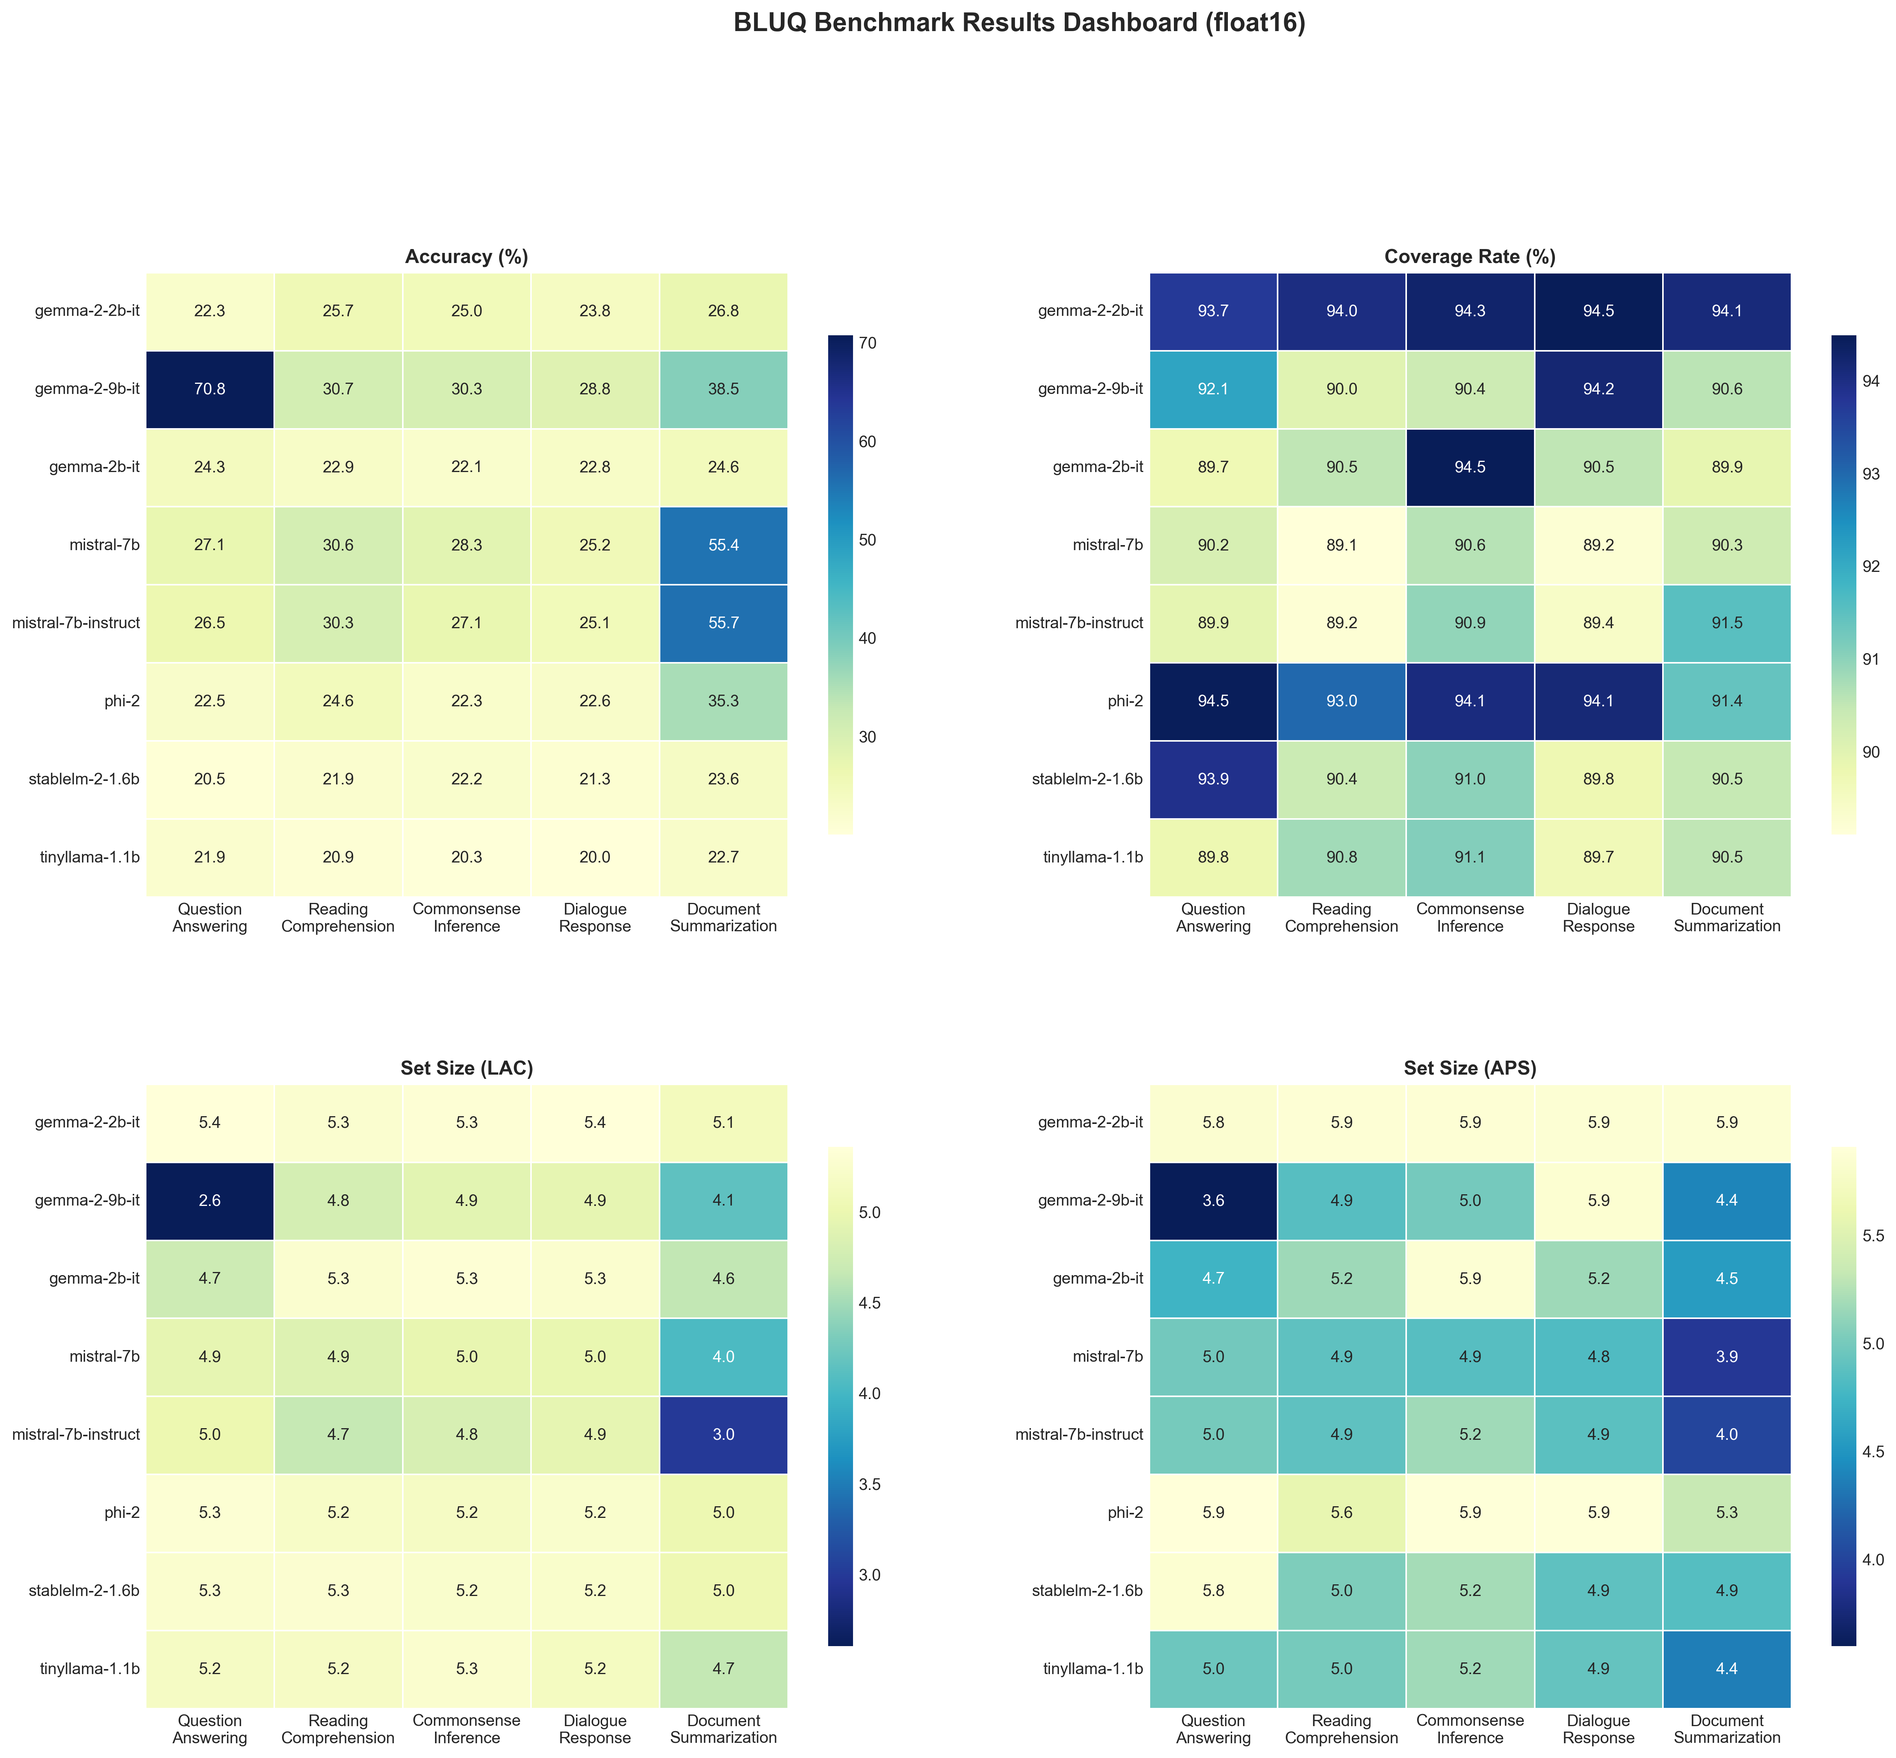
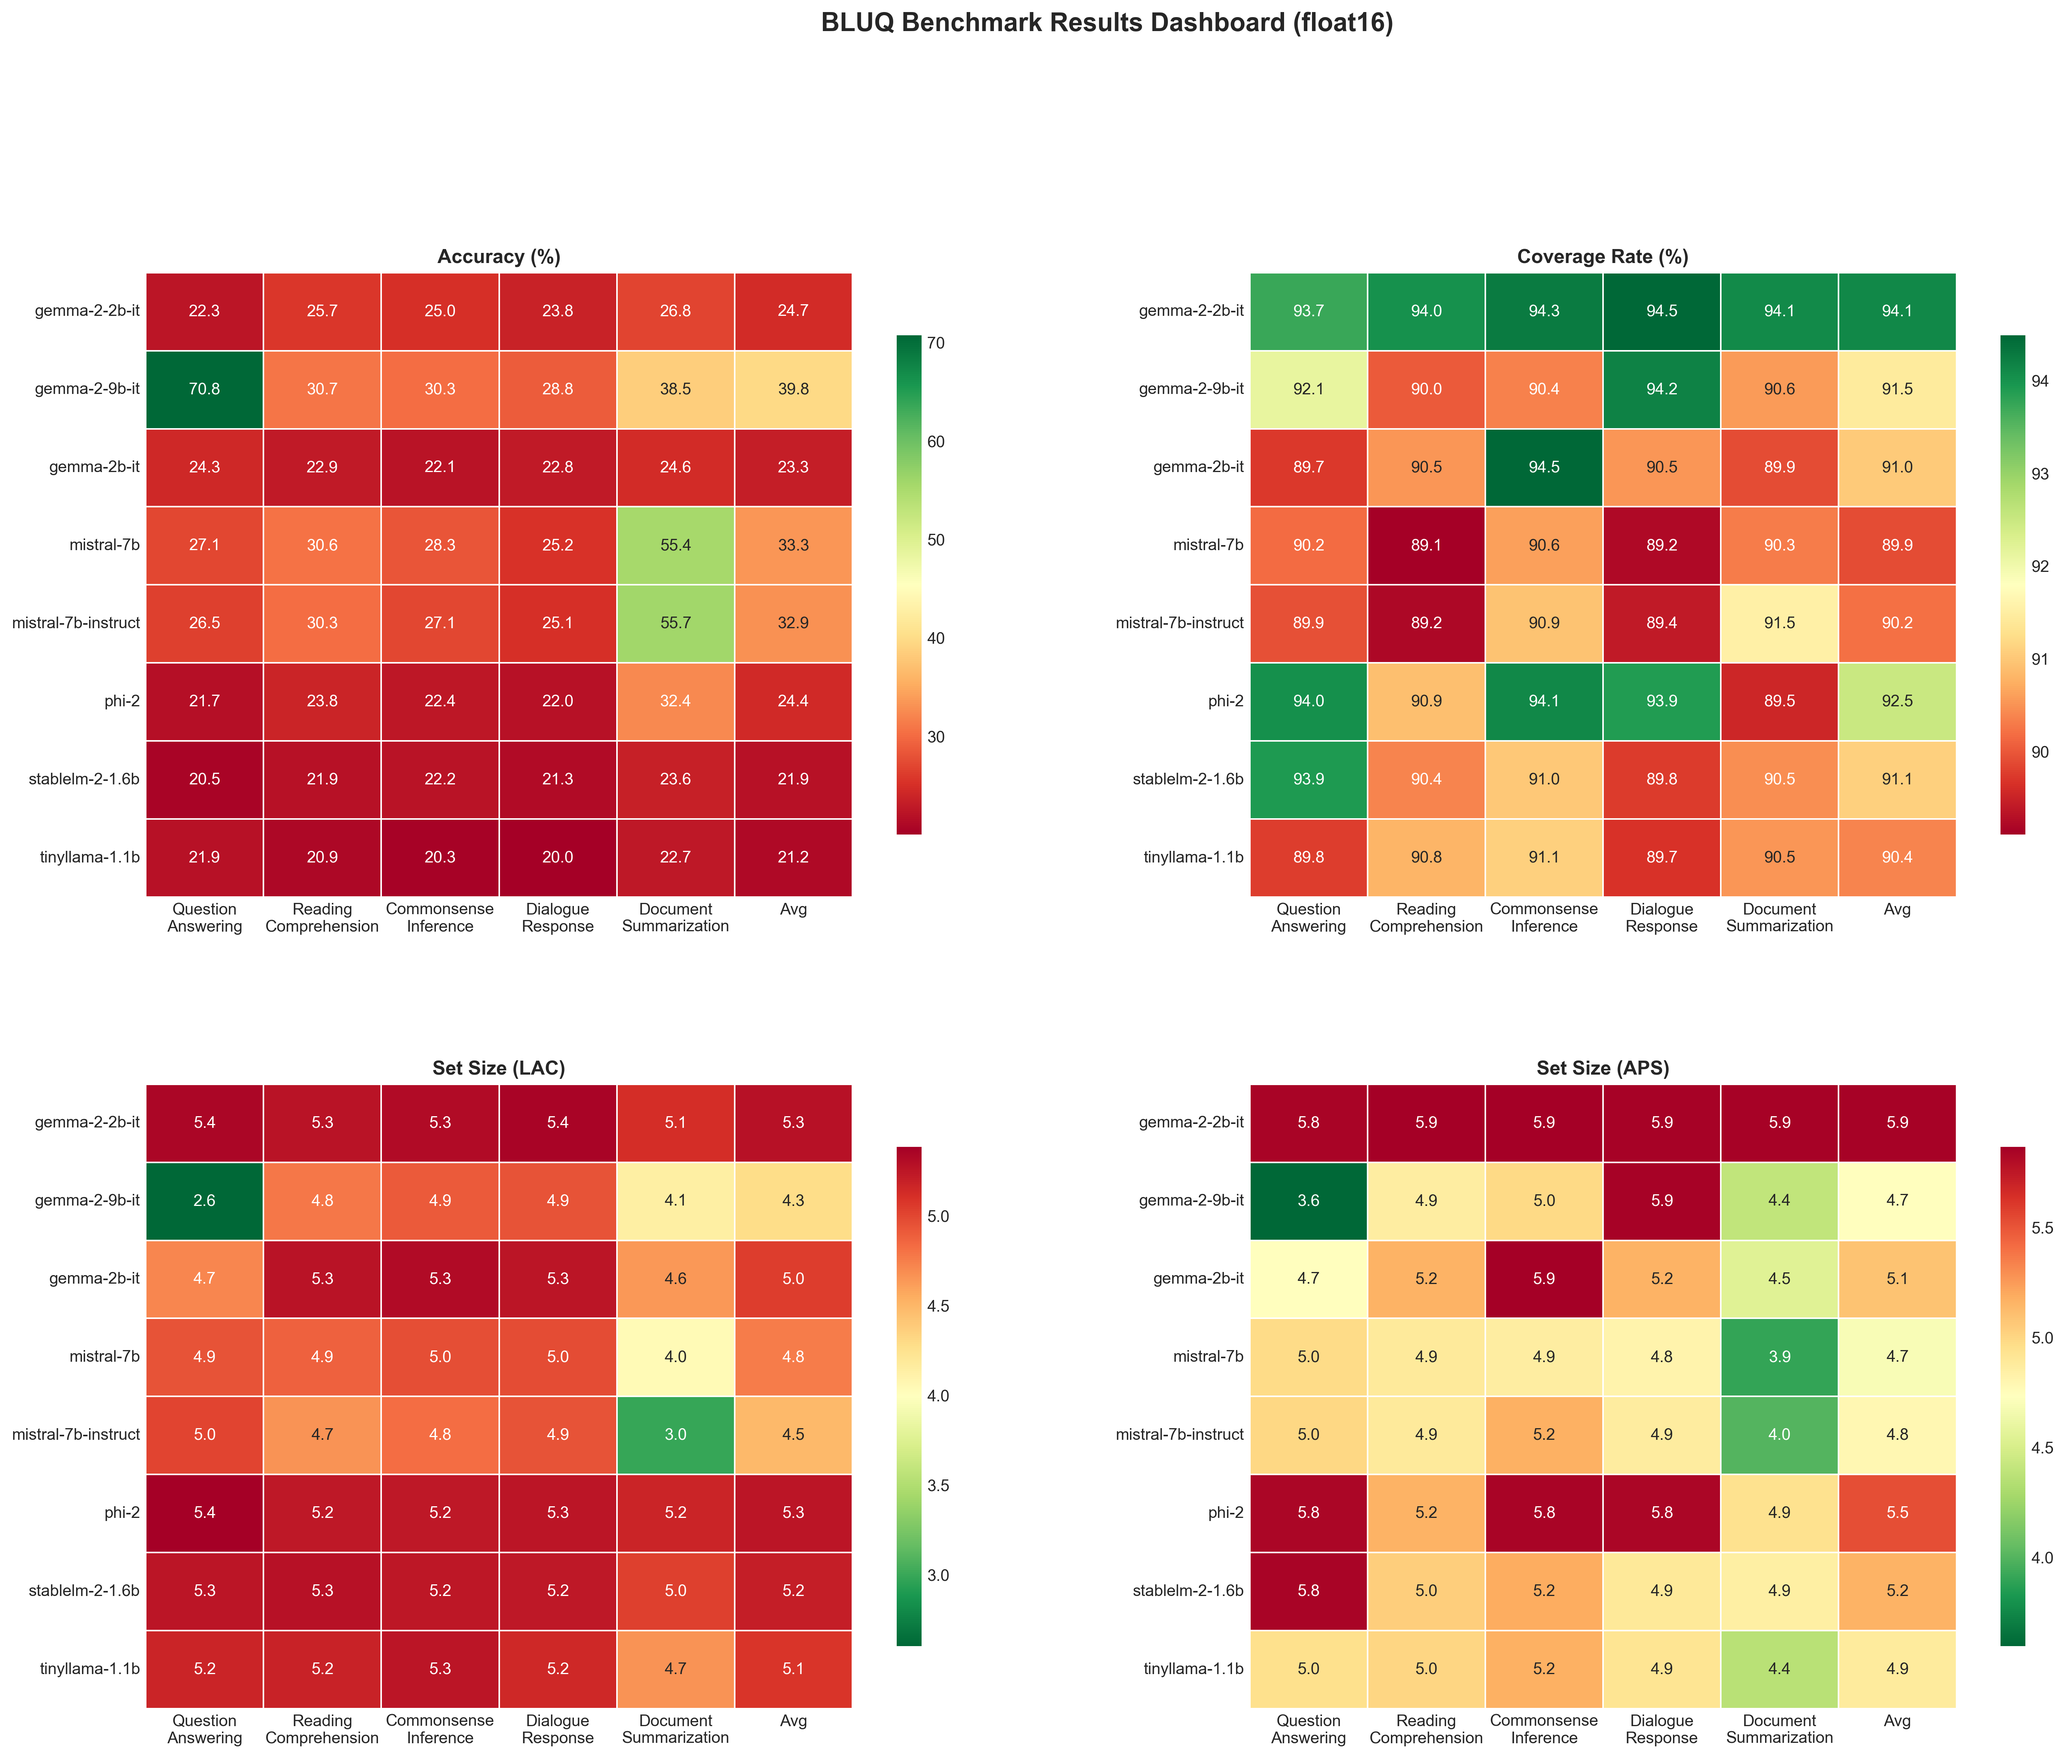
Update dashboard: add Avg column, change to RdYlGn color theme

diff --git a/src/visualization/result_visualizer.py b/src/visualization/result_visualizer.py
@@ -70,13 +70,13 @@ class ResultVisualizer:
         'set_size_aps': 'Set Size (APS)'
     }
 
-    # Color schemes - using YlGnBu (Yellow-Green-Blue) for better visual distinction
+    # Color schemes - using RdYlGn for intuitive good/bad visualization
     COLORS = {
-        'accuracy': 'YlGnBu',
-        'coverage_rate': 'YlGnBu',
-        'avg_set_size': 'YlGnBu_r',  # Reversed - smaller is better
-        'set_size_lac': 'YlGnBu_r',
-        'set_size_aps': 'YlGnBu_r'
+        'accuracy': 'RdYlGn',        # Red (low) to Green (high) - higher is better
+        'coverage_rate': 'RdYlGn',   # Red (low) to Green (high) - higher is better
+        'avg_set_size': 'RdYlGn_r',  # Reversed - smaller is better (green)
+        'set_size_lac': 'RdYlGn_r',
+        'set_size_aps': 'RdYlGn_r'
     }
 
     def __init__(
@@ -272,12 +272,13 @@ class ResultVisualizer:
     def plot_comprehensive_dashboard(
         self,
         dtype_filter: Optional[str] = None,
-        figsize: Tuple[int, int] = (20, 16),
+        figsize: Tuple[int, int] = (22, 16),
         save: bool = True
     ) -> plt.Figure:
         """
         Create a comprehensive dashboard with multiple metrics.
         Shows: Accuracy, Coverage, Set Size (LAC), Set Size (APS)
+        Each heatmap includes an 'Avg' column showing the mean across tasks.
         """
         fig = plt.figure(figsize=figsize)
 
@@ -304,11 +305,15 @@ class ResultVisualizer:
                 ax.set_title(title)
                 continue
 
-            task_labels = [self.TASK_NAMES.get(t, t) for t in tasks]
+            # Add average column
+            avg_col = np.nanmean(matrix, axis=1, keepdims=True)
+            matrix_with_avg = np.hstack([matrix, avg_col])
+
+            task_labels = [self.TASK_NAMES.get(t, t) for t in tasks] + ['Avg']
             cmap = self.COLORS.get(metric, 'viridis')
 
             sns.heatmap(
-                matrix,
+                matrix_with_avg,
                 annot=True,
                 fmt='.1f',
                 cmap=cmap,
